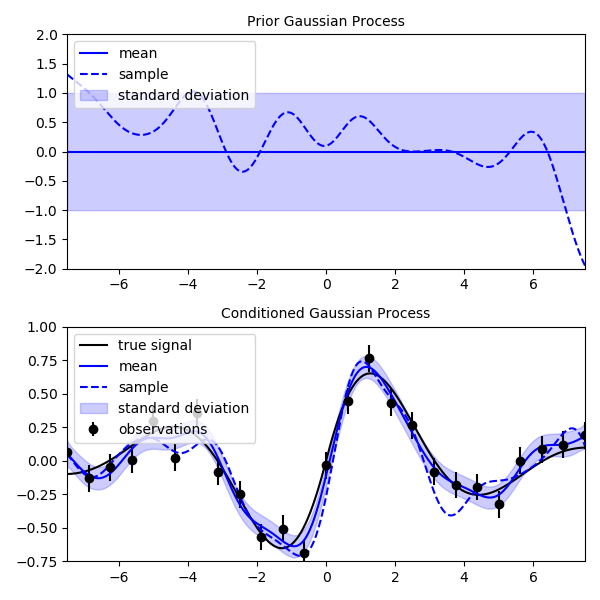
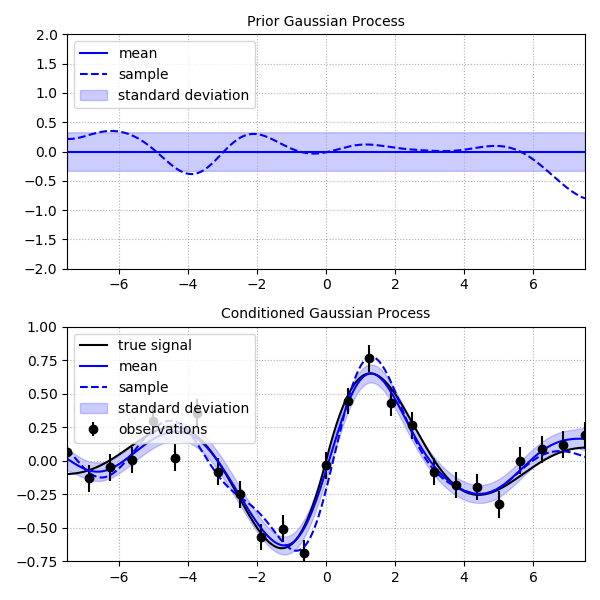
updated demo

Changed region(s): [[0.09, 0.15, 0.99, 0.39], [0.12, 0.6, 0.99, 0.93], [0.96, 0.42, 0.99, 0.45]]

diff --git a/docs/scripts/gauss.a.py b/docs/scripts/gauss.a.py
@@ -1,59 +1,77 @@
 ''' 
-This script demonstrates how to perform Gaussian process regression on 
-a noisy data set. It also demonstrates drawing samples of the prior 
-and posterior to provide the user with an intuitive understanding of 
-their distributions. 
+This script demonstrates how to perform Gaussian process regression on a noisy
+data set. It also demonstrates drawing samples of the prior and posterior to
+provide the user with an intuitive understanding of their distributions.
 '''
+import logging
 import numpy as np
 import matplotlib.pyplot as plt
-import logging
-from rbf.basis import se
-from rbf.gauss import gpiso
+from scipy.optimize import minimize
+
+from rbf.gauss import gpiso, gppoly
+
 logging.basicConfig(level=logging.DEBUG)
 np.random.seed(1)
 
-y = np.linspace(-7.5,7.5,25) # observation points
-x = np.linspace(-7.5,7.5,1000) # interpolation points
-u_true = np.exp(-0.3*np.abs(x))*np.sin(x)  # true signal
-sigma = 0.1*np.ones(25) # observation uncertainty
+# observation points
+y = np.linspace(-7.5, 7.5, 25) 
+# interpolation points
+x = np.linspace(-7.5, 7.5, 1000) 
+# true signal
+u_true = np.exp(-0.3*np.abs(x))*np.sin(x)
+# observation uncertainty
+sigma = 0.1*np.ones(25) 
 # noisy observations of the signal
-d = np.exp(-0.3*np.abs(y))*np.sin(y) + np.random.normal(0.0,sigma)
-# form a prior Gaussian process which has a squared exponential
-# covariance function (rbf.basis.se), 0.0 for the mean, 1.0 for the
-# standard deviation, and 1.0 for the characteristic length scale.
-gp = gpiso(se, (0.0, 1.0, 1.0)) 
-sample = gp.sample(x[:,None]) # generate random sample
-mean,std = gp(x[:,None]) # find the mean and standard dev. at x
-gp_cond = gp.condition(y[:,None],d,sigma=sigma) # condition with data
-sample_cond = gp_cond.sample(x[:,None]) 
-mean_cond,std_cond = gp_cond(x[:,None])  
+d = np.exp(-0.3*np.abs(y))*np.sin(y) + np.random.normal(0.0, sigma)
+# form a prior Gaussian process which has a squared exponential covariance
+# function (rbf.basis.se), 0.0 for the mean, and variance and lengthscales that
+# are chosen with maximum likelihood. The variance and lengthscale are given
+# positivity contraints by optimizing them in log space
+def negative_likelihood(params):
+    log_variance, log_lengthscale = params
+    gp = gpiso('se', (0.0, 10**log_variance, 10**log_lengthscale)) 
+    return -gp.likelihood(y[:, None], d, sigma=sigma)
+
+log_variance, log_lengthscale = minimize(negative_likelihood, [0.0, 0.0]).x
+# create a prior GaussianProcess using the most likely variance and lengthscale
+gp_prior = gpiso('se', (0.0, 10**log_variance, 10**log_lengthscale)) 
+# generate a sample of the prior
+sample_prior = gp_prior.sample(x[:, None]) 
+# find the mean and standard deviation of the prior
+mean_prior, std_prior = gp_prior(x[:, None])
+# condition the prior on the observations
+gp_post = gp_prior.condition(y[:, None], d, sigma=sigma) 
+sample_post = gp_post.sample(x[:, None]) 
+mean_post, std_post = gp_post(x[:, None])  
 
 ## Plotting
 #####################################################################
-fig,axs = plt.subplots(2,1,figsize=(6,6))
+fig, axs = plt.subplots(2, 1, figsize=(6, 6))
 ax = axs[0]
+ax.grid(ls=':')
 ax.tick_params(labelsize=10)
-ax.set_title('Prior Gaussian Process',fontsize=10)
-ax.plot(x,mean,'b-',label='mean')
-ax.fill_between(x,mean-std,mean+std,color='b',
-                alpha=0.2,edgecolor='none',label='standard deviation')
+ax.set_title('Prior Gaussian Process', fontsize=10)
+ax.plot(x, mean_prior, 'b-', label='mean')
+ax.fill_between(x, mean_prior - std_prior, mean_prior + std_prior, color='b',
+                alpha=0.2, edgecolor='none', label='standard deviation')
 
-ax.plot(x,sample,'b--',label='sample')
-ax.set_xlim((-7.5,7.5))
-ax.set_ylim((-2.0,2.0))
-ax.legend(loc=2,fontsize=10)
+ax.plot(x, sample_prior, 'b--', label='sample')
+ax.set_xlim((-7.5, 7.5))
+ax.set_ylim((-2.0, 2.0))
+ax.legend(loc=2, fontsize=10)
 ax = axs[1]
+ax.grid(ls=':')
 ax.tick_params(labelsize=10)
-ax.set_title('Conditioned Gaussian Process',fontsize=10)
-ax.errorbar(y,d,sigma,fmt='ko',capsize=0,label='observations')
-ax.plot(x,u_true,'k-',label='true signal')
-ax.plot(x,mean_cond,'b-',label='mean')
-ax.plot(x,sample_cond,'b--',label='sample')
-ax.fill_between(x,mean_cond-std_cond,mean_cond+std_cond,color='b',
-                alpha=0.2,edgecolor='none',label='standard deviation')
-ax.set_xlim((-7.5,7.5))
-ax.set_ylim((-0.75,1.0))
-ax.legend(loc=2,fontsize=10)
+ax.set_title('Conditioned Gaussian Process', fontsize=10)
+ax.errorbar(y, d, sigma, fmt='ko', capsize=0, label='observations')
+ax.plot(x, u_true, 'k-', label='true signal')
+ax.plot(x, mean_post, 'b-', label='mean')
+ax.plot(x, sample_post, 'b--', label='sample')
+ax.fill_between(x, mean_post-std_post, mean_post+std_post, color='b',
+                alpha=0.2, edgecolor='none', label='standard deviation')
+ax.set_xlim((-7.5, 7.5))
+ax.set_ylim((-0.75, 1.0))
+ax.legend(loc=2, fontsize=10)
 plt.tight_layout()
 plt.savefig('../figures/gauss.a.png')
 plt.show()

diff --git a/rbf/gauss.py b/rbf/gauss.py
@@ -1382,7 +1382,7 @@ class GaussianProcess(object):
   >>> import numpy as np
   >>> from rbf.gauss import GaussianProcess
   >>> def mean(x): return np.zeros(x.shape[0])
-  >>> def cov(x1, x2): return np.min(np.meshgrid(x1[:, 0], x2[:, 0], indexing='ij'), axis=0)
+  >>> def cov(x1, x2): return np.minimum(x1[:, None, 0], x2[None, :, 0])
   >>> gp = GaussianProcess(mean, cov, dim=1) # Brownian motion is 1D
 
 
@@ -2003,7 +2003,7 @@ def gpiso(phi, params, dim=None, check_finite=True):
 
   Parameters
   ----------
-  phi : RBF instance
+  phi : str or RBF instance
     Radial basis function describing the covariance function. For example, use
     `rbf.basis.se` for a squared exponential covariance function. This must be
     positive definite.
@@ -2036,6 +2036,7 @@ def gpiso(phi, params, dim=None, check_finite=True):
   `rbf.basis.iq`, `rbf.basis.imq`.
 
   '''
+  phi = rbf.basis.get_rbf(phi)
   params = as_array(params, dtype=float)
 
   @_io_is_checked
